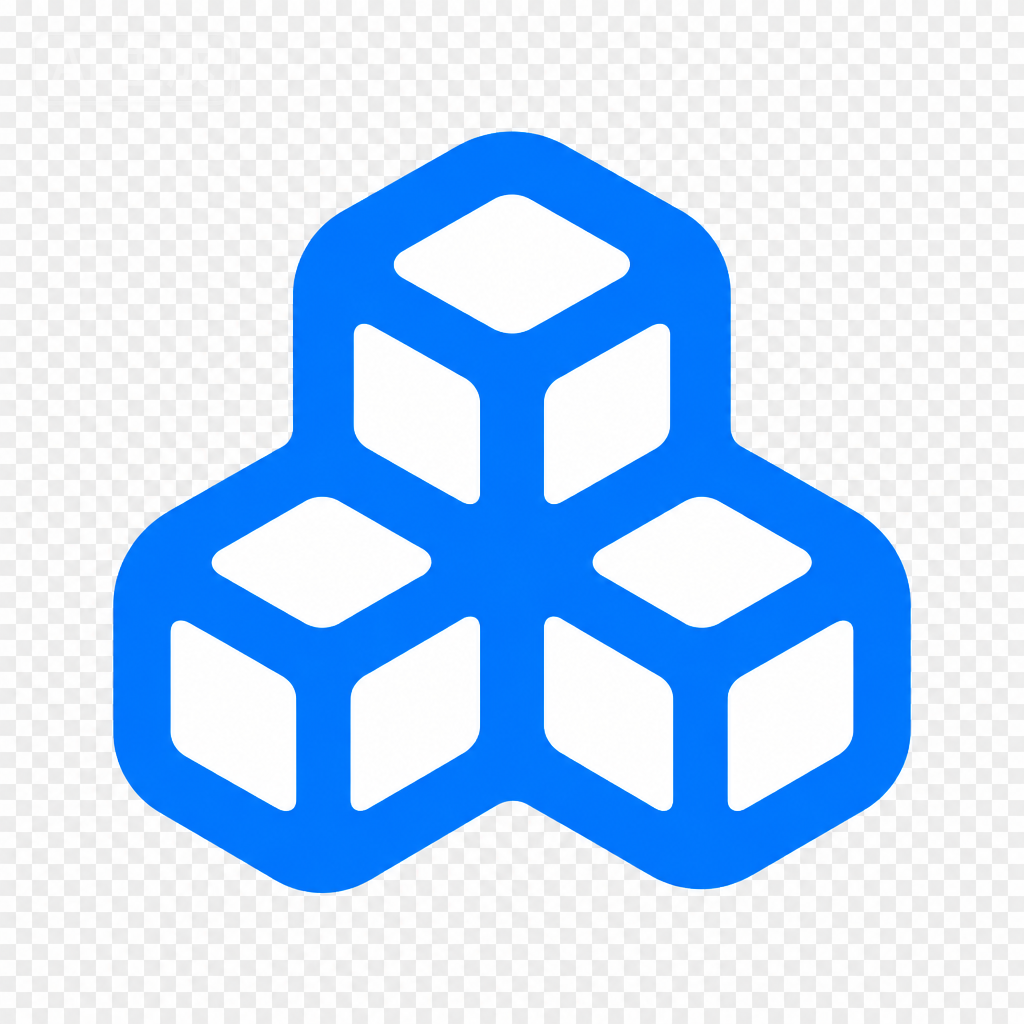
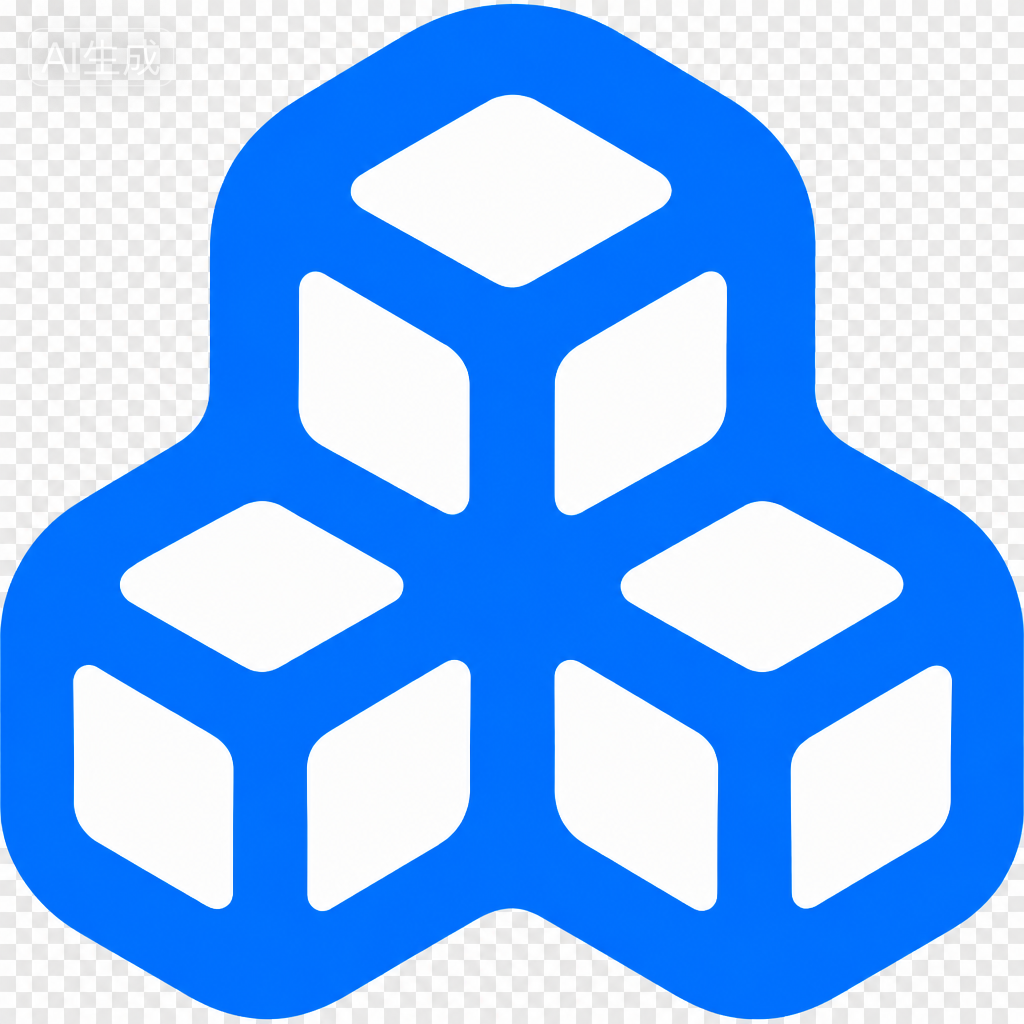
feat(desktop): 登录优先与断网可用性修复、运行模式改单选、替换应用图标
- 共享模式登录不再立即跑数据同步（与登录/首屏抢资源导致登录变慢）：
  改为登录响应返回 5s 后由后台定时器触发一次
- 登录态心跳只在服务器明确回复 valid=False 时登出；网络不可达/超时/5xx
  一律按"无法确定"处理——单机模式断网可继续使用，不再误踢下线
- 登录页运行模式改为圆圈单选（共享/单机互斥，各自带说明文案）
- 网页端与桌面端应用图标替换为「应用logo图标_去水印去背景.png」
  （1024×1024 RGBA；桌面 app.ico 由 CI 构建时经 make_icon.py 生成）

diff --git a/frontend/src/renderer/components/LoginModal.tsx b/frontend/src/renderer/components/LoginModal.tsx
@@ -275,29 +275,40 @@ export function LoginModal({ isOpen, forceChangePassword = false, onClose }: Log
               <label className="block text-sm text-muted-foreground mb-1.5">
                 {t('desktopAuth.runModeLabel', '运行模式')}
               </label>
-              <div className="grid grid-cols-2 gap-2">
-                {(['shared', 'standalone'] as const).map((value) => (
-                  <button
-                    key={value}
-                    type="button"
-                    onClick={() => setDesktopRunMode(value)}
-                    className={`px-3 py-2 rounded-lg border-2 text-sm font-medium transition-all ${
-                      desktopRunMode === value
-                        ? 'border-primary bg-primary/10 text-primary'
-                        : 'border-border hover:border-primary/50'
-                    }`}
-                  >
-                    {value === 'shared'
-                      ? t('desktopAuth.modeShared', '共享模式')
-                      : t('desktopAuth.modeStandalone', '单机模式')}
-                  </button>
-                ))}
+              <div className="space-y-2" role="radiogroup" aria-label={t('desktopAuth.runModeLabel', '运行模式')}>
+                {(['shared', 'standalone'] as const).map((value) => {
+                  const checked = desktopRunMode === value
+                  return (
+                    <label
+                      key={value}
+                      className={`flex items-start gap-2.5 px-3 py-2 rounded-lg border-2 cursor-pointer transition-all ${
+                        checked ? 'border-primary bg-primary/10' : 'border-border hover:border-primary/50'
+                      }`}
+                    >
+                      <input
+                        type="radio"
+                        name="desktop-run-mode"
+                        value={value}
+                        checked={checked}
+                        onChange={() => setDesktopRunMode(value)}
+                        className="mt-0.5 h-4 w-4 shrink-0 accent-primary"
+                      />
+                      <span className="text-sm">
+                        <span className={`font-medium ${checked ? 'text-primary' : ''}`}>
+                          {value === 'shared'
+                            ? t('desktopAuth.modeShared', '共享模式')
+                            : t('desktopAuth.modeStandalone', '单机模式')}
+                        </span>
+                        <span className="block text-xs text-muted-foreground mt-0.5">
+                          {value === 'shared'
+                            ? t('desktopAuth.modeSharedHint', '与网页端同一账号、权限与数据组，可共享数据。')
+                            : t('desktopAuth.modeStandaloneHint', '数据仅存本机，需管理员授权后使用。')}
+                        </span>
+                      </span>
+                    </label>
+                  )
+                })}
               </div>
-              <p className="mt-1.5 text-xs text-muted-foreground">
-                {desktopRunMode === 'shared'
-                  ? t('desktopAuth.modeSharedHint', '与网页端同一账号、权限与数据组，可共享数据。')
-                  : t('desktopAuth.modeStandaloneHint', '数据仅存本机，需管理员授权后使用。')}
-              </p>
             </div>
           )}
 

diff --git a/backend/tests/test_desktop_local_login.py b/backend/tests/test_desktop_local_login.py
@@ -161,7 +161,7 @@ def test_login_mirrors_web_account(local_env):
 
 
 def test_shared_login_starts_sync(local_env):
-    """共享模式登录即置为共享并触发一次同步（后台线程，失败不阻断登录）。"""
+    """共享模式登录置为共享并触发一次同步（延后后台跑，失败不阻断登录）。"""
     import app.services.desktop_sync_service as sync_module
 
     calls = []
@@ -169,6 +169,8 @@ def test_shared_login_starts_sync(local_env):
     local_env.monkeypatch.setattr(
         sync_module, "sync_once", lambda: calls.append(True) or {"pulled": 0}
     )
+    # 登录优先：真实延后 5s，这里缩短以便断言"最终会跑"
+    local_env.monkeypatch.setattr(local_env.desktop_local, "LOGIN_SYNC_DELAY_SECONDS", 0.1)
 
     resp = local_env.client.post(
         "/api/v1/desktop/login",
@@ -177,7 +179,7 @@ def test_shared_login_starts_sync(local_env):
     assert resp.status_code == 200, resp.text
     assert resp.json()["data"]["sync_started"] is True
     assert sync_module.run_mode() == "shared"
-    for _ in range(50):  # 同步在后台线程触发，短暂等待
+    for _ in range(60):  # 同步延后由定时器触发，短暂等待
         if calls:
             break
         time.sleep(0.05)
@@ -440,3 +442,66 @@ def test_auth_poll_still_pending(local_env):
     )
     assert resp.status_code == 200
     assert resp.json()["data"]["result"] == "pending"
+
+
+def test_session_check_never_kicks_on_server_error(monkeypatch):
+    """服务器 5xx / 网络异常不得判为"已在别处登录"：断网时必须能继续用。"""
+    from app.services import desktop_cloud_client as cloud
+
+    def _boom(*args, **kwargs):
+        raise cloud.CloudError(503, "服务暂时不可用")
+
+    monkeypatch.setattr(cloud, "_license_file_text", lambda: "fake-license")
+    monkeypatch.setattr(cloud, "_request", _boom)
+
+    result = cloud.session_check("jti-1")
+
+    assert result["valid"] is True
+    assert result.get("offline") is True
+
+
+def test_check_session_once_keeps_login_when_offline(local_env):
+    """单机模式断网：心跳按有效处理，不注销本机登录、不写 kicked 标记。"""
+    local_env.cloud.save_state(session_jti="jti-offline", kicked=False, kicked_reason=None)
+    local_env.monkeypatch.setattr(
+        local_env.cloud,
+        "session_check",
+        lambda jti: {"valid": True, "offline": True, "reason": "无法连接授权服务器"},
+    )
+
+    result = local_env.desktop_local.check_session_once()
+
+    assert result["valid"] is True
+    assert result.get("offline") is True
+    assert not local_env.cloud.load_state().get("kicked")
+
+
+def test_login_shared_sync_is_deferred(local_env):
+    """登录优先：共享模式登录只切换运行模式，同步延后到登录流程之后再跑。"""
+    from types import SimpleNamespace
+
+    dl = local_env.desktop_local
+    calls: list = []
+    started: list = []
+
+    class FakeTimer:
+        def __init__(self, interval, fn):
+            started.append(interval)
+            self.fn = fn
+            self.daemon = False
+
+        def start(self):
+            calls.append("timer-started")
+
+    local_env.monkeypatch.setattr(dl, "threading", SimpleNamespace(Timer=FakeTimer))
+    local_env.monkeypatch.setattr(
+        "app.services.desktop_sync_service.set_run_mode",
+        lambda mode: calls.append(f"mode:{mode}"),
+    )
+    local_env.monkeypatch.setattr(dl, "_run_sync_once", lambda: calls.append("sync"))
+
+    dl._start_shared_sync()
+
+    assert calls == ["mode:shared", "timer-started"]
+    assert started == [dl.LOGIN_SYNC_DELAY_SECONDS]
+    assert "sync" not in calls  # 同步不得在登录路径上同步执行

diff --git a/backend/app/api/v1/endpoints/desktop_local.py b/backend/app/api/v1/endpoints/desktop_local.py
@@ -310,6 +310,9 @@ def check_session_once() -> Dict[str, Any]:
         return {"valid": False, "reason": result.get("reason")}
     # 权限位随心跳同步：管理员改权限后运行中的桌面端无需重登即可生效
     data: Dict[str, Any] = {"valid": True}
+    if result.get("offline"):
+        # 服务器不可达/异常：按"无法确定"处理（断网继续用，不踢下线）
+        data["offline"] = True
     user_payload = _sync_permissions_from_remote(result.get("user"))
     if user_payload is not None:
         data["user"] = user_payload
@@ -329,15 +332,24 @@ async def session_guard_loop(interval_seconds: int = 60) -> None:
         await asyncio.sleep(max(15, interval_seconds))
 
 
+# 登录优先：共享模式的首次同步延后这么久再跑
+LOGIN_SYNC_DELAY_SECONDS = 5.0
+
+
 def _start_shared_sync() -> None:
     """共享模式登录成功即同步一次同组数据。
 
-    同步可能要下载多个数据集，放后台线程跑，失败只写状态不影响本机使用。
+    同步要下载并导入多个数据集，与登录、首屏请求抢资源会让"登录很慢"，
+    因此延后再跑：登录响应与首屏先完成，同步仍是同一次后台任务
+    （失败只写状态，不影响本机使用）。
     """
     from app.services.desktop_sync_service import MODE_SHARED, set_run_mode
 
     set_run_mode(MODE_SHARED)
-    threading.Thread(target=_run_sync_once, name="desktop-login-sync", daemon=True).start()
+    timer = threading.Timer(LOGIN_SYNC_DELAY_SECONDS, _run_sync_once)
+    timer.name = "desktop-login-sync"
+    timer.daemon = True
+    timer.start()
 
 
 def _run_sync_once() -> None:

diff --git a/backend/app/services/desktop_cloud_client.py b/backend/app/services/desktop_cloud_client.py
@@ -339,7 +339,9 @@ def app_version() -> Dict[str, Any]:
 def session_check(session_jti: str) -> Dict[str, Any]:
     """登录态校验：本机本次登录是否仍是该账号的最后一次登录。
 
-    网络不可达时按"有效"处理（断网不该把人踢下线，单机模式更是完全离线）。
+    只有服务器**明确回复** valid=False（该账号已在别处登录 / 会话已失效）才判定
+    为本机需登出；网络不可达、超时、5xx 等一律按"无法确定"处理——断网或服务器
+    抖动时不能把人踢下线（单机模式本就允许离线长期使用）。
     """
     from app.utils.machine_code import get_machine_code
 
@@ -355,9 +357,7 @@ def session_check(session_jti: str) -> Dict[str, Any]:
             timeout=15,
         )
     except CloudError as exc:
-        if exc.status_code == 0:
-            return {"valid": True, "offline": True}
-        return {"valid": False, "reason": exc.message}
+        return {"valid": True, "offline": True, "reason": exc.message}
     return resp.get("data") or {}
 
 
